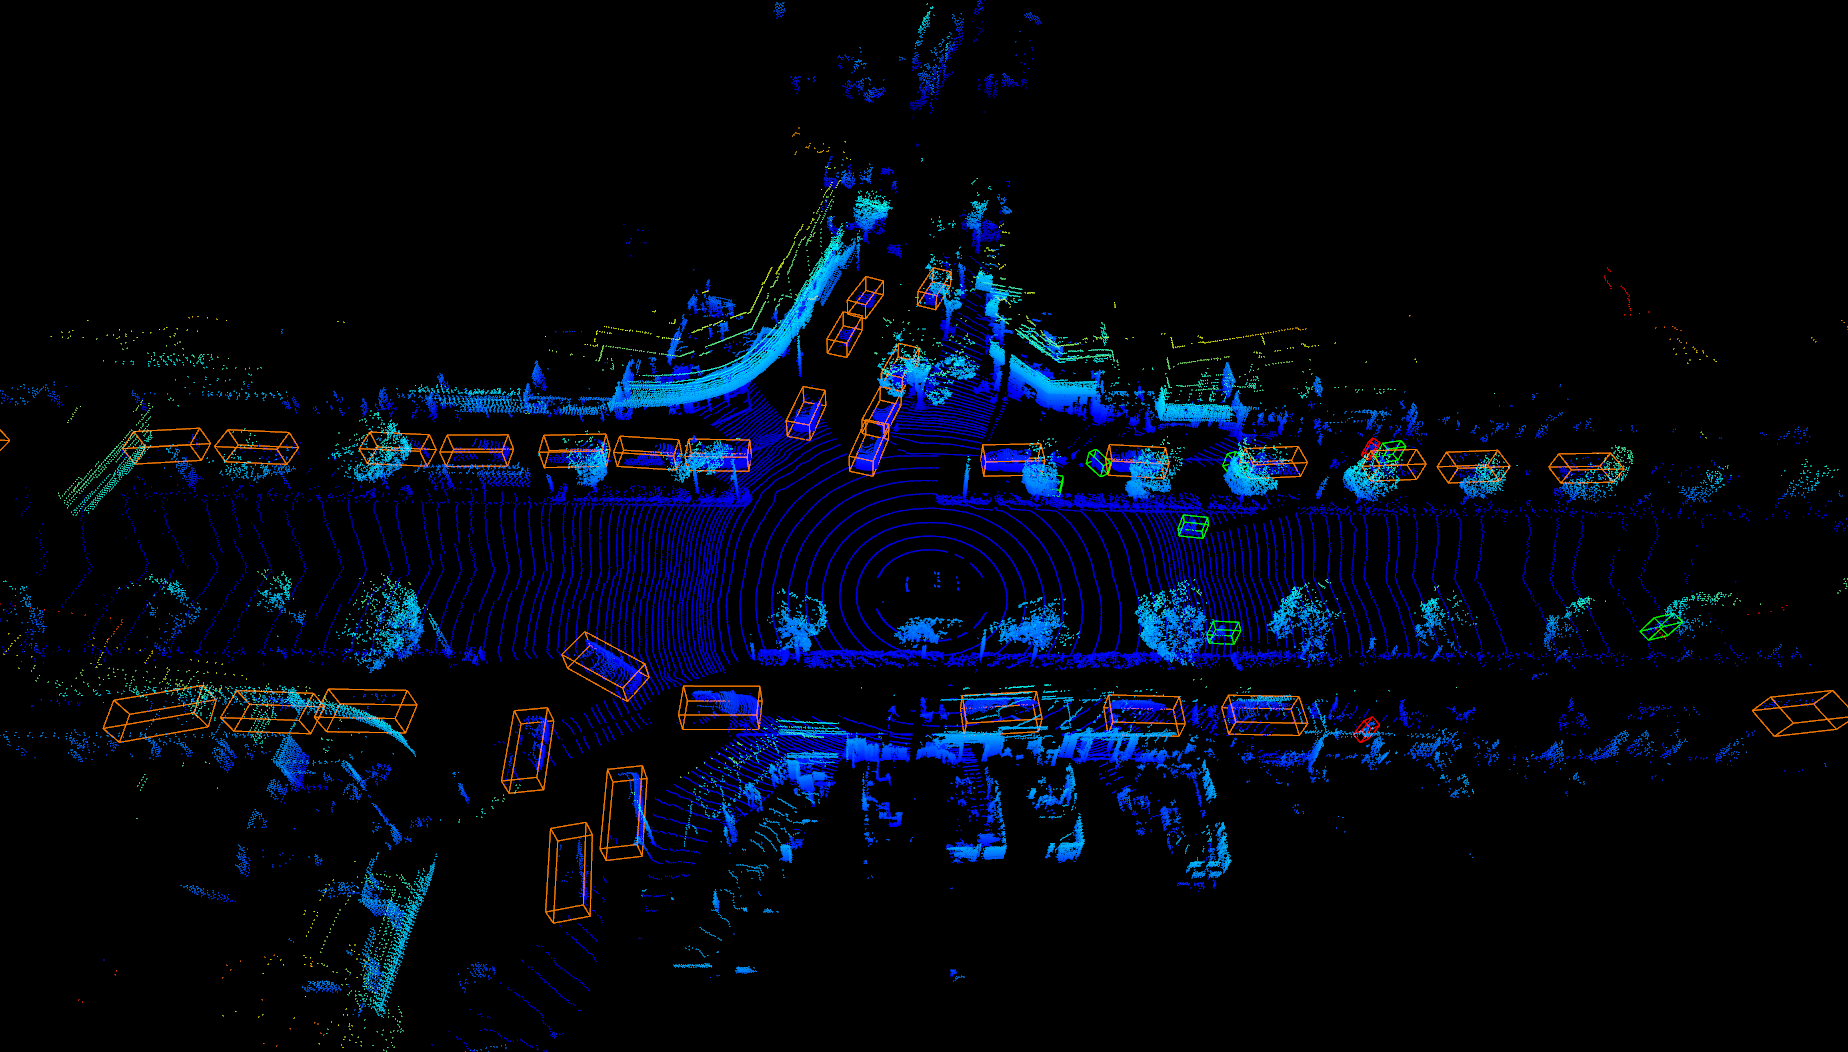
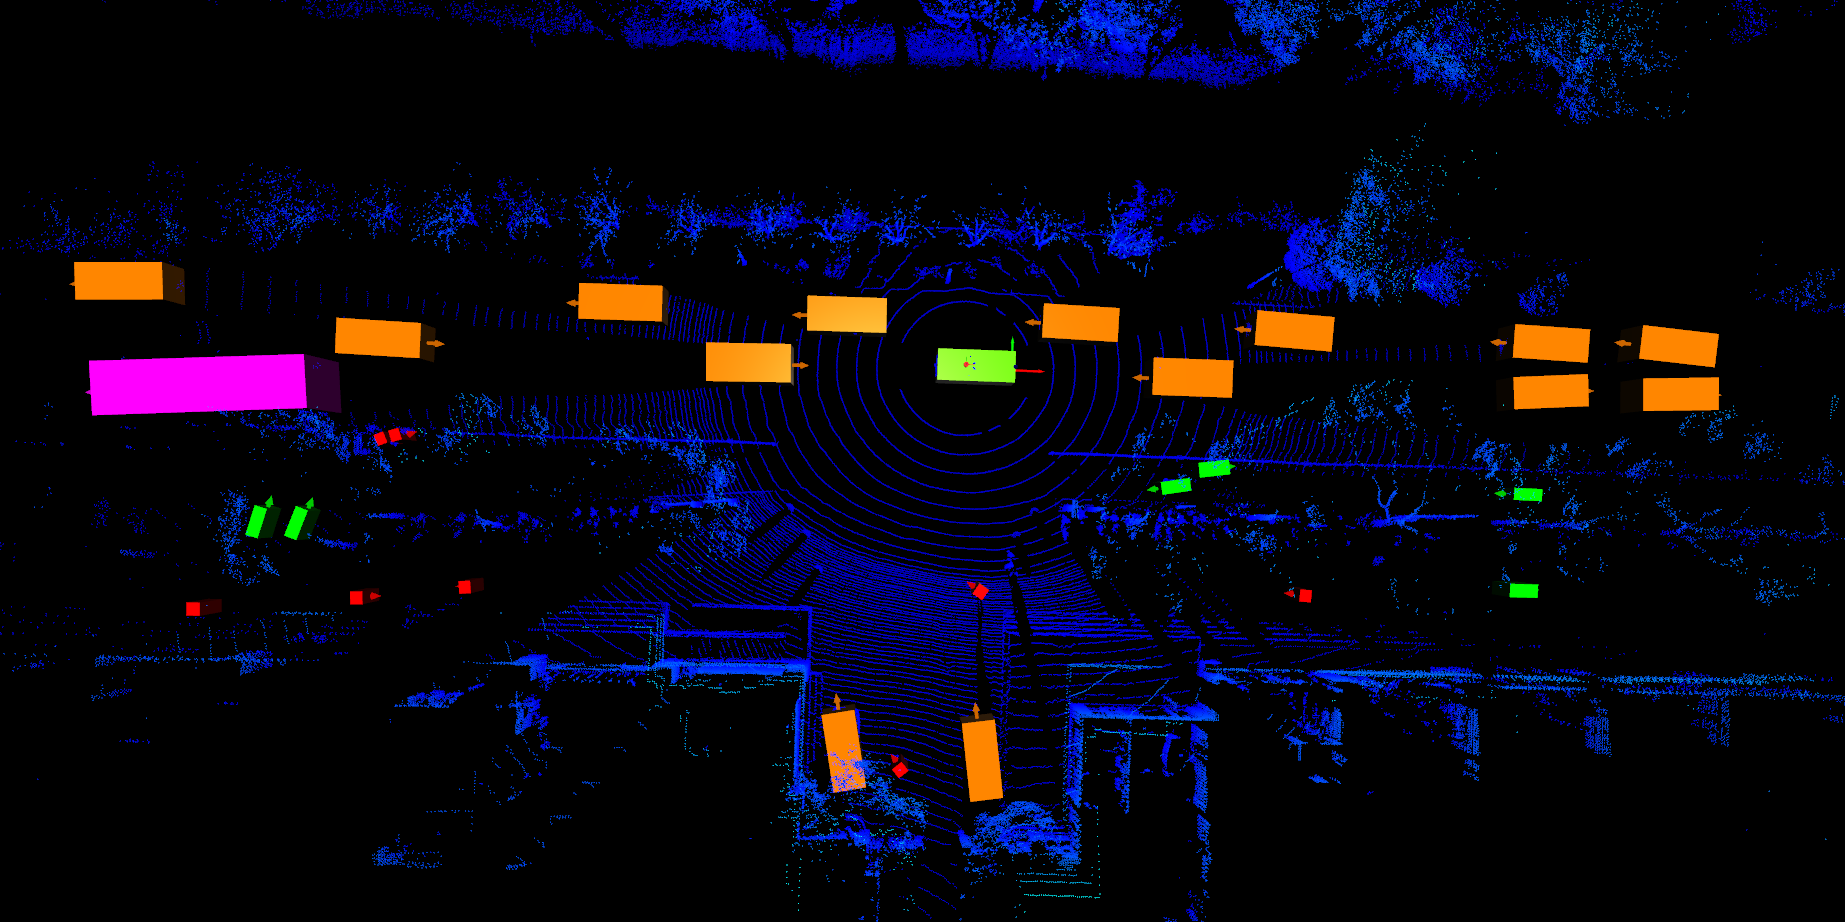
update visualization in the quick test with a single .bin file

diff --git a/tools/tests/test_a_bin_file.py b/tools/tests/test_a_bin_file.py
@@ -15,6 +15,7 @@ from det3d.builder import build_voxel_generator, build_target_assigners
 from det3d.models import build_detector
 from det3d.torchie import Config
 from det3d.torchie.trainer import load_checkpoint
+from tools.tests.object_utils import Visualizer, generate_ego_geometries
 
 init_logger()
 
@@ -53,26 +54,6 @@ def box_to_geometries(box3d, labels, color_fade_factor=1.0):
     return geometries
 
 
-def convert_detection_to_geometries(points, box3d, labels):
-    geometries = list()
-
-    # add points first
-    pcs = np.array(points[:, :3])
-    pcobj = o3d.geometry.PointCloud()
-    pcobj.points = o3d.utility.Vector3dVector(pcs)
-    geometries.append(pcobj)
-
-    # add boxes
-    geometries += box_to_geometries(box3d, labels)
-
-    return geometries
-
-
-def visualize_deecamp(points, box3d, labels):
-    geometries = convert_detection_to_geometries(points, box3d, labels)
-    draw_pcs_open3d(geometries)
-
-
 class Deecamp3DDector(object):
 
     def __init__(self, config, model_p, calib_data=None):
@@ -82,6 +63,10 @@ class Deecamp3DDector(object):
         self._init_model()
 
     def _init_model(self):
+        self.points = None
+        self.box3d = None
+        self.labels = None
+
         self.net = build_detector(self.config.model, train_cfg=None, test_cfg=self.config.test_cfg).to(device).eval()
 
         # use mixed precision
@@ -147,7 +132,7 @@ class Deecamp3DDector(object):
 
         # remove points far under the ground
         z_filt = points[:, 2] > -10.0
-        points = points[z_filt, :]
+        self.points = points[z_filt, :]
 
         # make the example
         example = self.load_an_in_example_from_points(points)
@@ -168,11 +153,56 @@ class Deecamp3DDector(object):
 
         # filter results by the confidence score
         idx = np.where(scores > 0.11)[0]
-        box3d = box3d[idx, :]
-        labels = np.take(labels, idx)
-        scores = np.take(scores, idx)
+        self.box3d = box3d[idx, :]
+        self.labels = np.take(labels, idx)
+        self.scores = np.take(scores, idx)
 
-        return points, box3d, labels
+    def convert_detection_to_geometries(self):
+        geometries = list()
+
+        # add points first
+        pcs = np.array(self.points[:, :3])
+        pcobj = o3d.geometry.PointCloud()
+        pcobj.points = o3d.utility.Vector3dVector(pcs)
+        geometries.append(pcobj)
+
+        # add boxes
+        for i in range(self.box3d.shape[0]):
+            # get box info
+            box_location = self.box3d[i, :3]
+            box_dimension = self.box3d[i, 3:6]
+            box_rotation = [0.0, 0.0, self.box3d[i, 6]]
+            box_color = np.asarray(box_colors[self.labels[i]]) * 0.8
+
+            # construct box geometry
+            object_box = o3d.geometry.TriangleMesh.create_box(width=box_dimension[0],
+                                                              height=box_dimension[1],
+                                                              depth=box_dimension[2])
+            object_box.compute_vertex_normals()
+            object_box.paint_uniform_color(box_color)
+            # -- first add bias
+            transformation = np.eye(4)
+            transformation[:3, 3] = -0.5 * box_dimension
+            object_box.transform(transformation)
+            # -- then apply box location
+            transformation[:3, 3] = box_location
+            transformation[:3, :3] = o3d.geometry.TriangleMesh.get_rotation_matrix_from_xyz(box_rotation)
+            object_box.transform(transformation)
+            geometries.append(object_box)
+
+            # construct orientation arrow
+            arrow = o3d.geometry.TriangleMesh.create_arrow(
+                cylinder_radius=0.1, cone_radius=0.2, cylinder_height=box_dimension[0] * 0.6,
+                cone_height=0.5)
+            arrow.paint_uniform_color(box_color)
+            transformation = np.eye(4)
+            transformation[:3, 3] = box_location
+            transformation[:3, :3] = o3d.geometry.Geometry3D.get_rotation_matrix_from_xyz(
+                [np.pi / 2, box_rotation[2] + np.pi / 2, 0])
+            arrow.transform(transformation)
+            geometries.append(arrow)
+
+        return geometries
 
 
 if __name__ == "__main__":
@@ -182,6 +212,23 @@ if __name__ == "__main__":
         config_file = 'examples/second/configs/deepcamp_all_vfev3_spmiddlefhd_rpn1_mghead_syncbn.py'
         config = Config.fromfile(config_file)
         model_file = 'res/latest.pth'
+
+        # create detector
         detector = Deecamp3DDector(config, model_file)
-        points, box3d, labels = detector.predict_on_deecamp_local_file(sys.argv[1])
-        visualize_deecamp(points, box3d, labels)
+
+        # test
+        detector.predict_on_deecamp_local_file(sys.argv[1])
+
+        # visualize
+        vis = Visualizer()
+        geometries = list()
+
+        # -- get detection geometries
+        detection_geometries = detector.convert_detection_to_geometries()
+
+        # -- add ego geometries
+        ego_geometries = generate_ego_geometries()
+
+        geometries.extend(detection_geometries)
+        geometries.extend(ego_geometries)
+        vis.show(geometries)

diff --git a/tools/tests/object_utils.py b/tools/tests/object_utils.py
@@ -355,6 +355,40 @@ class ObjectManipulator(object):
         return geometries
 
 
+def generate_ego_geometries():
+    geometries = list()
+
+    # add frame
+    frame = o3d.geometry.TriangleMesh.create_coordinate_frame(size=2.0, origin=[0, 0, 0])
+    geometries.append(frame)
+
+    # add ego box
+    ego_box = o3d.geometry.TriangleMesh.create_box(width=4.5, height=1.8, depth=1.6)
+    ego_box.compute_vertex_normals()
+    ego_box.paint_uniform_color([0.3, 0.8, 0.0])
+    transformation = np.eye(4)
+    transformation[:3, 3] = [-4.5, -0.9, 0.0]
+    ego_box.transform(transformation)
+    geometries.append(ego_box)
+
+    # add lidar sensor
+    lidar_sensor = o3d.geometry.TriangleMesh.create_cylinder(radius=0.15, height=0.2)
+    lidar_sensor.compute_vertex_normals()
+    lidar_sensor.paint_uniform_color([0.8, 0.0, 0.0])
+    lidar_origin = [-2.87509, -0.00462392, 1.83632]
+    transformation = np.eye(4)
+    transformation[:3, 3] = lidar_origin
+    lidar_sensor.transform(transformation)
+    geometries.append(lidar_sensor)
+
+    # add lidar sensor frame
+    lidar_frame = o3d.geometry.TriangleMesh.create_coordinate_frame(size=0.5)
+    lidar_frame.transform(transformation)
+    geometries.append(lidar_frame)
+
+    return geometries
+
+
 class Visualizer(object):
 
     def __init__(self):

diff --git a/README.md b/README.md
@@ -28,7 +28,9 @@ Please refer to [GETTING_STARTED.md](GETTING_STARTED.md).
 
 ### Single file test
 
-We provide a script to test a cloud file (`.bin` type). Please set the [config file path](tools/tests/test_a_bin_file.py#L168) and [model file path](tools/tests/test_a_bin_file.py#L170), then run:
+We provide a script to test a cloud file (`.bin` type). 
+Please set the `config_file` and `model_file` [here](tools/tests/test_a_bin_file.py#L212), 
+then run:
 
 ```bash
 python3 tools/tests/test_a_bin_file.py /path/to/test/cloud.bin
